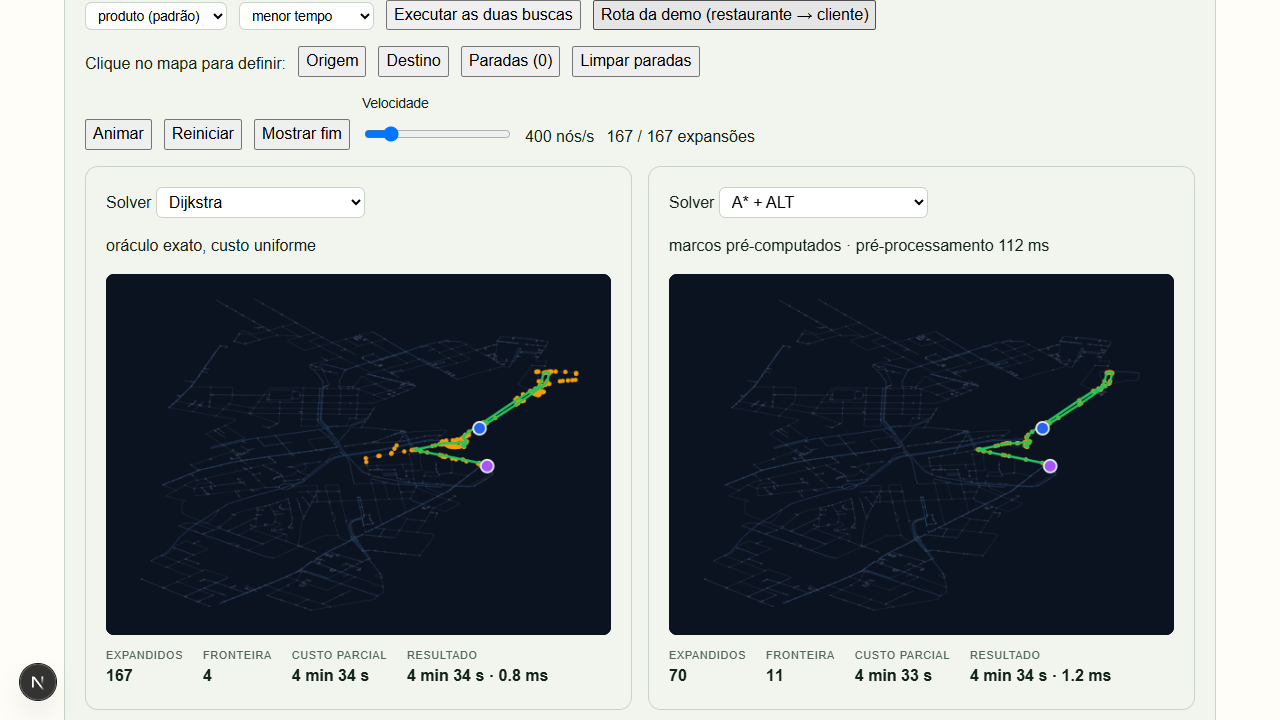
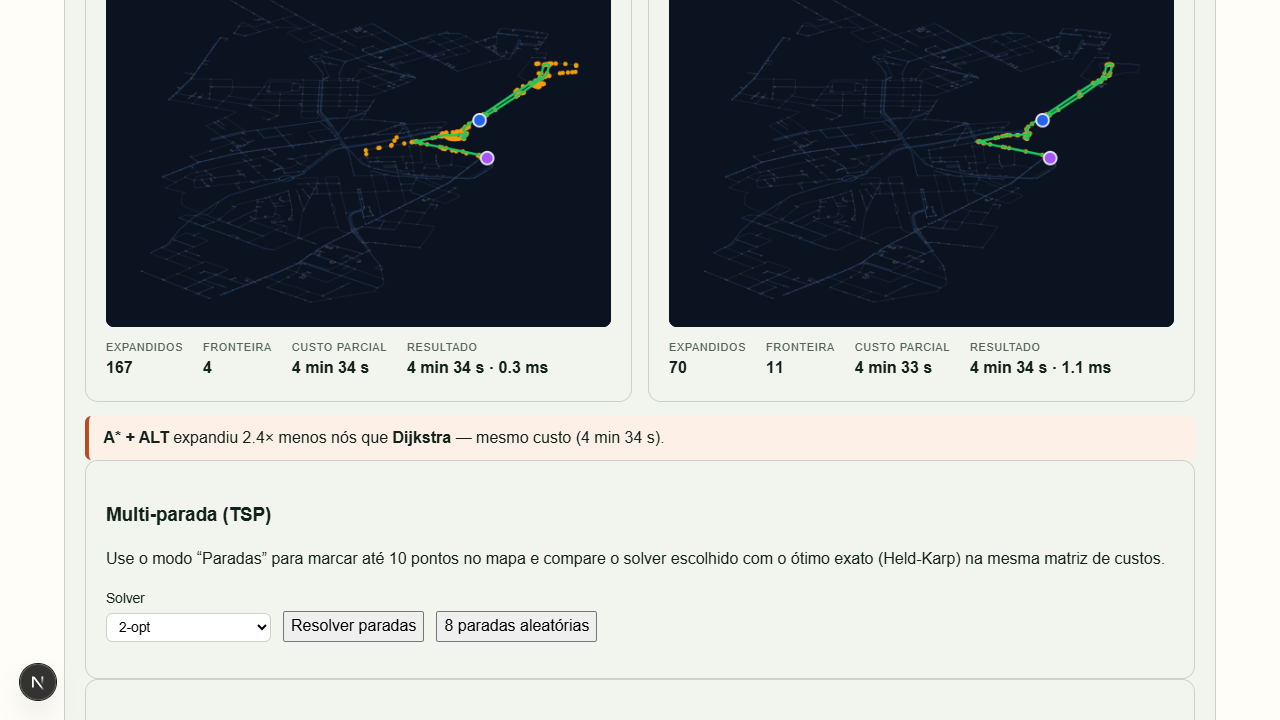
Lab: time-dependent solvers and a departure-hour control
The live lab can race the traffic-aware solvers, not just show the day curve:
A* and Dijkstra with transit appear in the solver list, a departure-hour select
feeds them, and picking distance with a time-dependent solver is rejected
instead of sending an invalid request. Screenshots refreshed.

diff --git a/app/web/src/components/algorithm-lab.tsx b/app/web/src/components/algorithm-lab.tsx
@@ -34,11 +34,9 @@ const SOLVERS: { value: LabSolverName; label: string; hint: string }[] = [
   { value: "astar", label: "A* (linha reta)", hint: "heurística admissível" },
   { value: "alt", label: "A* + ALT", hint: "marcos pré-computados" },
   { value: "bidirectional", label: "Bidirecional + ALT", hint: "duas frentes de busca" },
-  {
-    value: "ch",
-    label: "Hierarquia de contração",
-    hint: "pré-processa uma vez, responde em milissegundos",
-  },
+  { value: "ch", label: "Hierarquia de contração", hint: "pré-processa uma vez, responde em milissegundos" },
+  { value: "td-astar", label: "A* com trânsito", hint: "preço por hora de partida" },
+  { value: "td-dijkstra", label: "Dijkstra com trânsito", hint: "oráculo do A* com trânsito" },
   { value: "weighted-astar", label: "A* ponderado (ε)", hint: "inexato, no máximo ε× o ótimo" },
 ];
 
@@ -95,6 +93,7 @@ export function AlgorithmLab() {
   const [tspReference, setTspReference] = useState<LabTspResult | null>(null);
   const [benchmarks, setBenchmarks] = useState<LabBenchmarks | null>(null);
   const [traffic, setTraffic] = useState<LabTraffic | null>(null);
+  const [departureHour, setDepartureHour] = useState(12);
   const autoRunRef = useRef(false);
   const prefersReducedMotion = useMemo(
     () =>
@@ -242,6 +241,11 @@ export function AlgorithmLab() {
         setError("Escolha uma origem e um destino diferentes.");
         return;
       }
+      const timeDependent = panels.some((panel) => panel.solver.startsWith("td-"));
+      if (timeDependent && objective !== "time") {
+        setError("Solvers com trânsito usam apenas o objetivo tempo.");
+        return;
+      }
       setBusy(true);
       setError(null);
       try {
@@ -255,6 +259,7 @@ export function AlgorithmLab() {
               trace: true,
               graph: graphName,
               epsilon: panel.epsilon,
+              ...(panel.solver.startsWith("td-") ? { departure_hour: departureHour } : {}),
             }),
           ),
         );
@@ -276,7 +281,16 @@ export function AlgorithmLab() {
         setBusy(false);
       }
     },
-    [graph, graphName, originIndex, destinationIndex, panels, objective, prefersReducedMotion],
+    [
+      graph,
+      graphName,
+      originIndex,
+      destinationIndex,
+      panels,
+      objective,
+      prefersReducedMotion,
+      departureHour,
+    ],
   );
 
   // Poster state: a finished delivery-route race appears as soon as a graph
@@ -563,6 +577,21 @@ export function AlgorithmLab() {
         <span className="muted">
           {Math.min(Math.floor(step), maxFrames)} / {maxFrames} expansões
         </span>
+        <label>
+          Hora de partida{" "}
+          <select
+            value={departureHour}
+            onChange={(event) => setDepartureHour(Number(event.target.value))}
+            aria-label="Hora de partida usada pelos solvers com trânsito"
+          >
+            {Array.from({ length: 24 }, (_, hour) => (
+              <option key={hour} value={hour}>
+                {String(hour).padStart(2, "0")}h
+              </option>
+            ))}
+          </select>
+        </label>
+        <span className="muted">usada por “com trânsito”</span>
       </div>
 
       <div className="lab-panels">

diff --git a/app/web/src/lib/api-client.ts b/app/web/src/lib/api-client.ts
@@ -335,6 +335,8 @@ export type LabSolverName =
   | "alt"
   | "bidirectional"
   | "ch"
+  | "td-astar"
+  | "td-dijkstra"
   | "weighted-astar";
 
 export type LabPathResult = {
@@ -390,6 +392,7 @@ export function runLabPath(
     graph?: LabGraphName;
     epsilon?: number;
     landmarks?: number;
+    departure_hour?: number;
   },
 ): Promise<LabPathResult> {
   return request<LabPathResult>("/api/v1/lab/path", {
